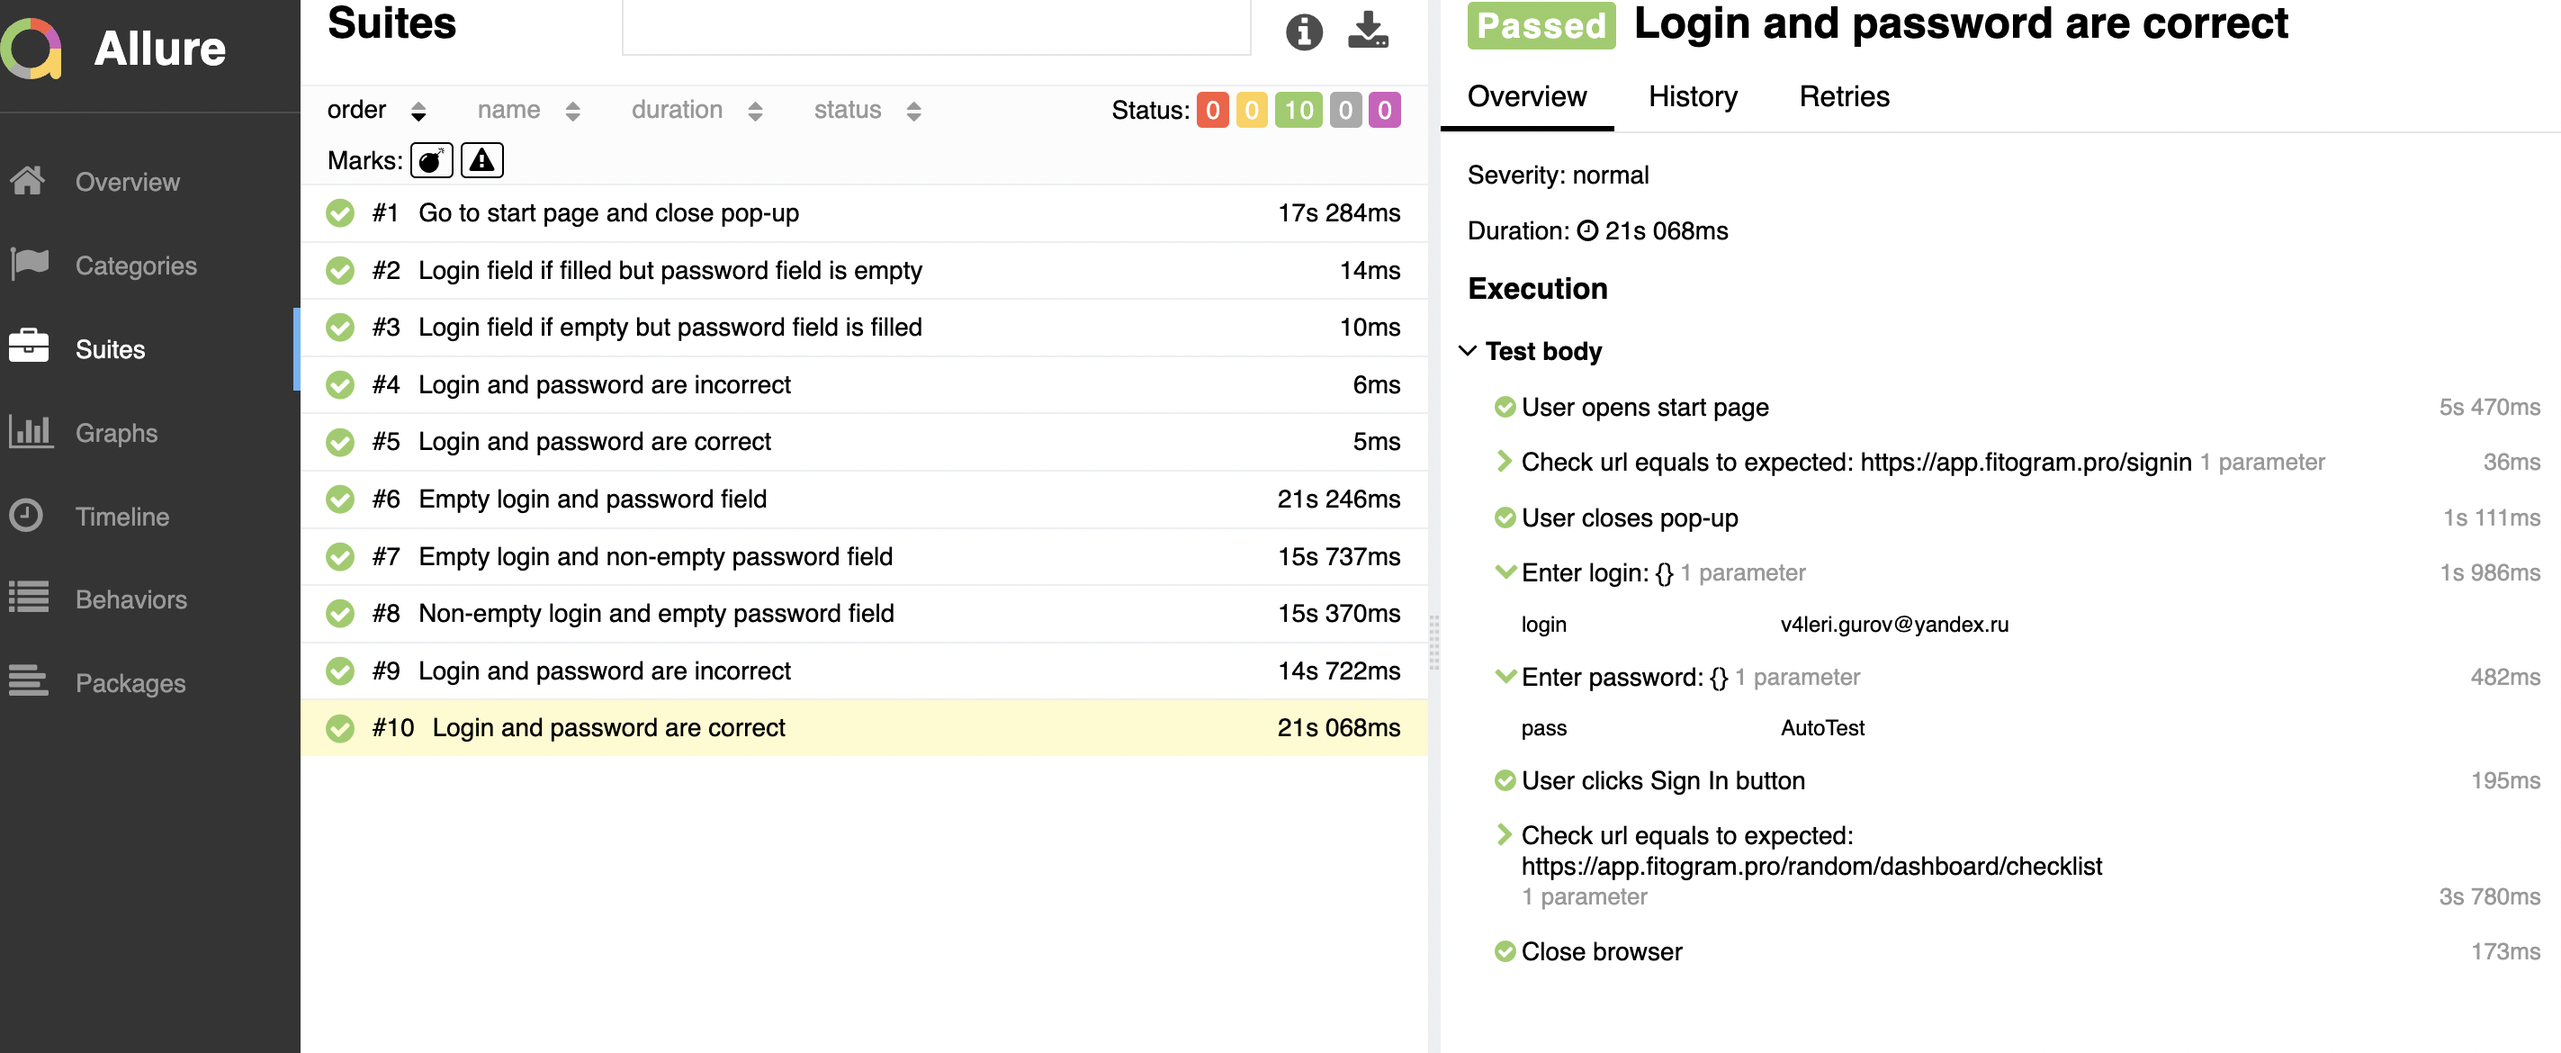
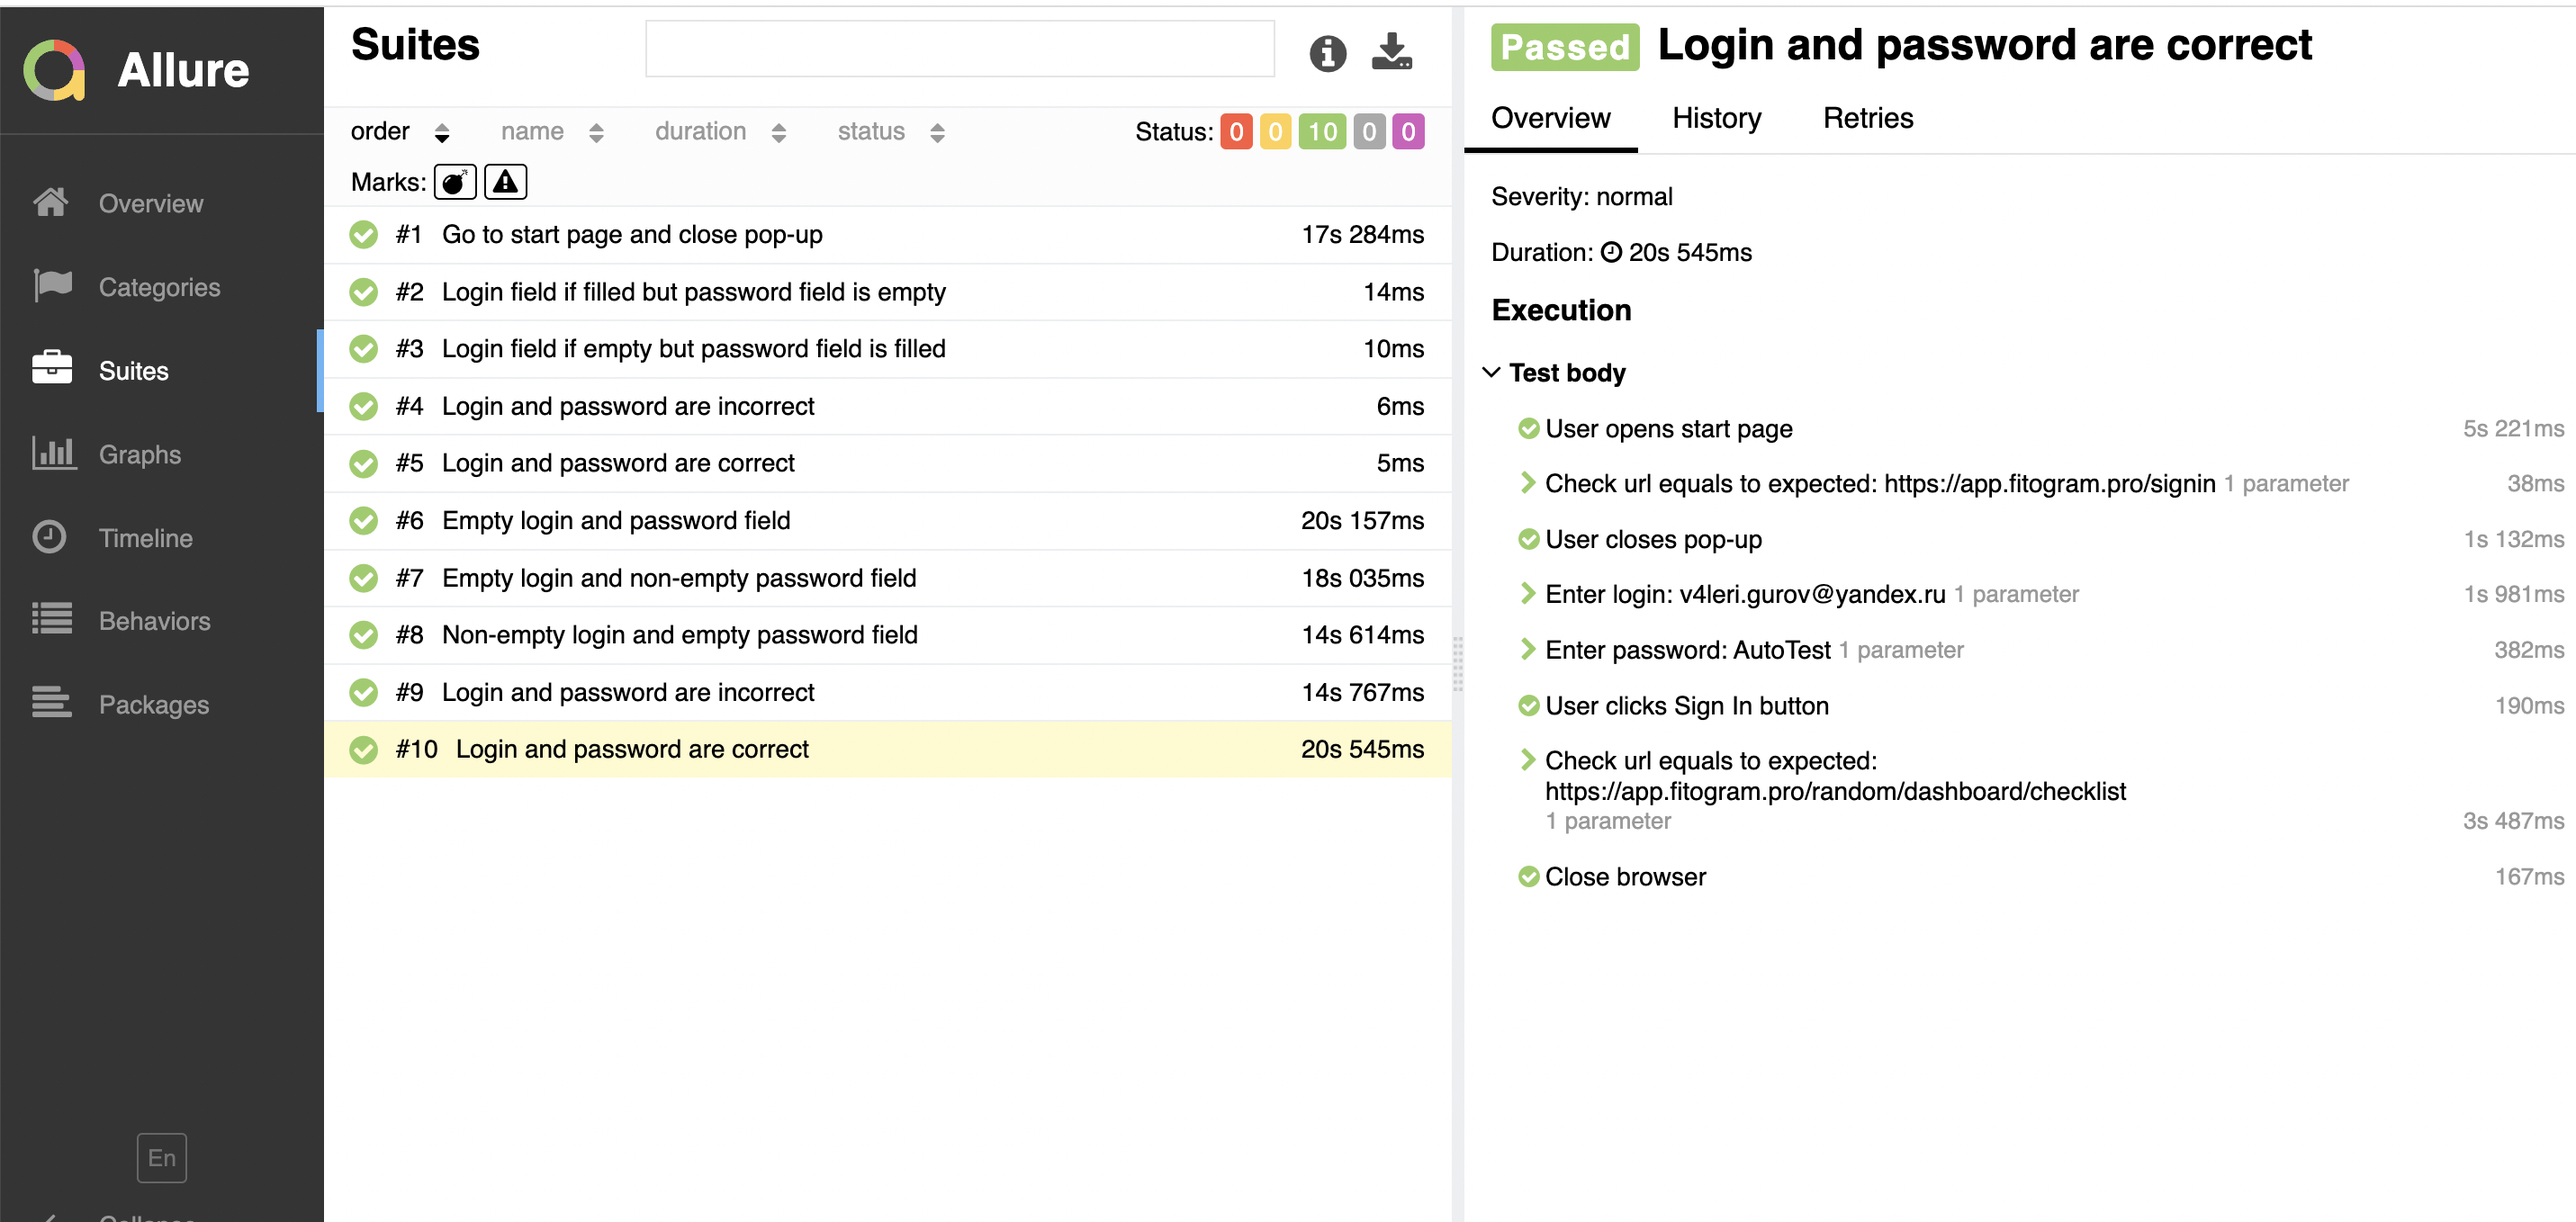
fixed the screenshot of Allure Step Annotations in Report

diff --git a/src/main/java/io/cucumber/MainPage.java b/src/main/java/io/cucumber/MainPage.java
@@ -46,21 +46,21 @@ public class MainPage extends BasePage {
         signIn.click();
     }
 
-    @Step("Enter login: {}")
+    @Step("Enter login: {0}")
     public void enterLogin(String login){
         email.click();
         email.sendKeys("");
         email.sendKeys(login);
     }
 
-    @Step("Enter password: {}")
+    @Step("Enter password: {0}")
     public void enterPassword(String pass){
         password.click();
         password.sendKeys("");
         password.sendKeys(pass);
     }
 
-    @Step("Enter password: {}")
+    @Step("Check Error Message Is Displayed: {0}")
     public void checkErrorMessageIsDisplayed(String errorMessage){
         waitForElementToBeDisplayed(signInError,10, 250, true);
         Assertions.assertTrue(signInError.isDisplayed(),
